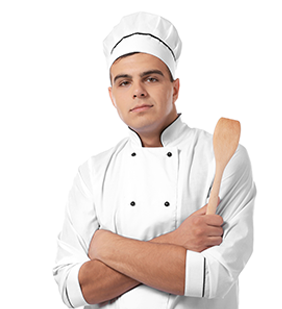
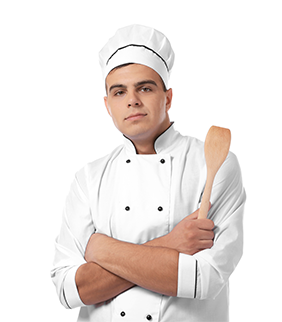
♻ update : Slider and image size

Changed region(s): [[0.1702, 0.0583, 0.9078, 1.0], [0.4255, 0.6408, 0.4823, 0.6699], [0.4539, 0.4951, 0.4823, 0.5243]]

diff --git a/app/assets/js/script.js b/app/assets/js/script.js
@@ -139,16 +139,15 @@ $(function () {
 $(function () {
 	var owl = $("#owl-one");
 	owl.owlCarousel({
-		autoplay: true,
+		autoplay: false,
 		// center: true,
 		loop: true,
 		mouseDrag: true,
-		margin: 0,
-		smartSpeed: 2000,
+		margin: 30,
 		dots: true,
 		nav: true,
-		slideBy: 1,
-		items: 1,
+		slideBy: 4,
+		items: 4,
 		animateIn: "fadeIn",
 		animateOut: "fadeOut",
 		responsiveClass: true,
@@ -160,18 +159,17 @@ $(function () {
 				items: 1,
 				autoplay: true
 			},
-
 			768: {
-				items: 1
+				items: 2
 			},
 			830: {
-				items: 1
+				items: 3
 			},
 			1000: {
-				item: 1
+				item: 3
 			},
 			1365: {
-				item: 1
+				item: 4
 			}
 		}
 	});
@@ -184,7 +182,7 @@ $(function () {
 	});
 });
 $(function () {
-	var owls = $(".owl-carousel");
+	var owls = $("#owl-carousel");
 	owls.owlCarousel({
 		loop: true,
 		autoplay: false,
